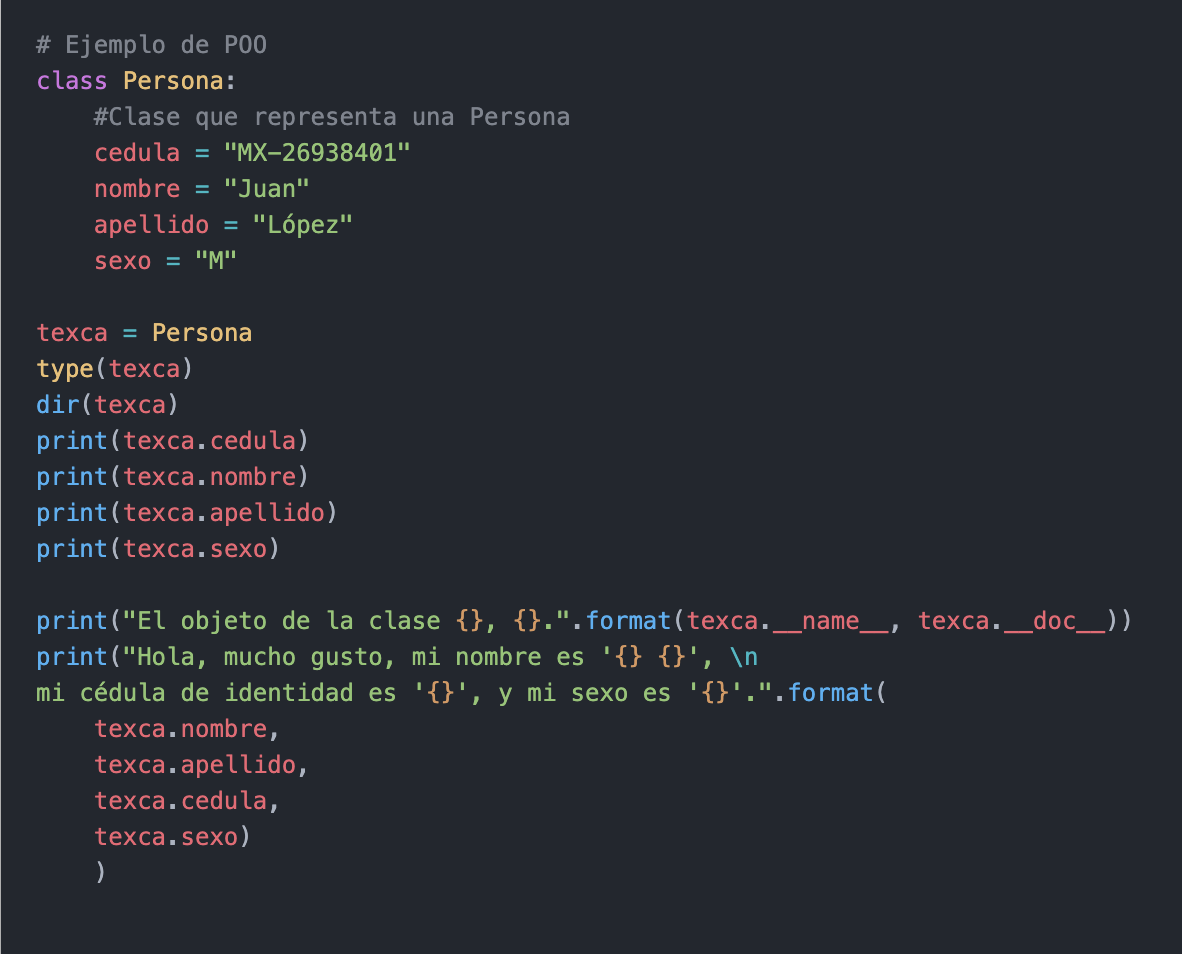
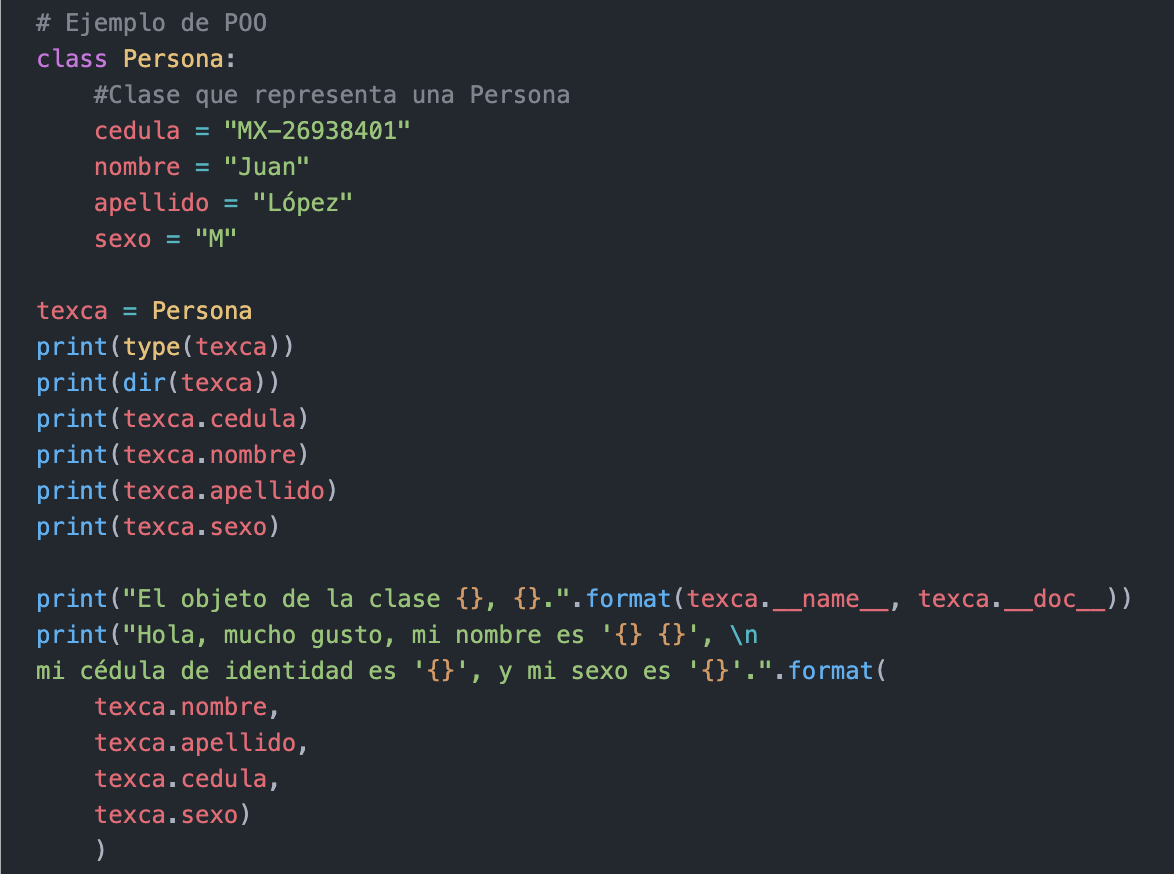
update NB10.md&.py y se añadio secc Metodos

Changed region(s): [[0.0307, 0.3398, 0.7666, 0.9577], [0.0307, 0.0, 0.4906, 0.278], [0.7666, 0.6487, 0.9506, 0.7105]]

diff --git a/Python_NB/Python_NB10.py b/Python_NB/Python_NB10.py
@@ -1,3 +1,4 @@
+""" 
 # Ejemplo de POO
 class Persona:
     #Clase que representa una Persona
@@ -7,8 +8,8 @@ class Persona:
     sexo = "M"
 
 texca = Persona
-type(texca)
-dir(texca)
+print(type(texca))
+print(dir(texca))
 print(texca.cedula)
 print(texca.nombre)
 print(texca.apellido)
@@ -21,3 +22,17 @@ print("Hola, mucho gusto, mi nombre es '{} {}', \nmi cédula de identidad es '{}
     texca.cedula,
     texca.sexo)
     )
+"""
+
+# Ejemplo de POO
+class Persona:
+    #Clase que representa una Persona
+    cedula = "MX-26938401"
+    nombre = "Juan"
+    apellido = "López"
+    sexo = "M"
+
+texca = Persona
+
+print(texca.__name__)
+print(texca.__doc__)

diff --git a/Python_NB/Python_NB10.md b/Python_NB/Python_NB10.md
@@ -73,13 +73,36 @@
 <img src="../imagenes/15.-PycdPOO3.png" width="600" height="500">
 
 ### Salida:
+<class 'type'>
+- ['__class__', '__delattr__', '__dict__', '__dir__', '__doc__', '__eq__', '__format__', '__ge__', '__getattribute__', '__gt__', '__hash__', '__init__', '__init_subclass__', '__le__', '__lt__', '__module__', '__ne__', '__new__', '__reduce__', '__reduce_ex__', '__repr__', '__setattr__', '__sizeof__', '__str__', '__subclasshook__', '__weakref__', 'apellido', 'cedula', 'nombre', 'sexo']
 - MX-26938401
 - Juan
 - López
 - M
 - El objeto de la clase Persona, None.
 - Hola, mucho gusto, mi nombre es 'Juan López', 
-- mi cédula de identidad es 'MX-26938401', y mi sexo es 'M'.
+mi cédula de identidad es 'MX-26938401', y mi sexo es 'M'.
+
+### Si el nombre de un atributo esta encerrado entre dobles guiones bajos son atributos especiales.
+
+- ***_ _ _name_ _ _***, describe el nombre del objeto o del método.
+- ***_ _ _doc_ _ _***, contiene la documentación de un módulo, una clase, o método especifico, escrita en el formato docstrings.
+
+<img src="../imagenes/15.-PycdPOO4.png" width="350" height="250">
+
+### Salida:
+- Persona
+- None
+
+# Métodos
+
+### Los métodos describen el comportamiento de los objetos de una clase. Estos representan las operaciones que se pueden realizar con los objetos de la clase,
+
+### La ejecución de un método puede conducir a cambiar el estado del objeto.
+
+### Se definen de la misma forma que las funciones normales pero deben declararse dentro de la clase y su primer argumento siempre referencia a la instancia que la llama, de esta forma se afirma que los métodos son funciones, adjuntadas a objectos.
+
+
 
 #
 |  | Descripción |
